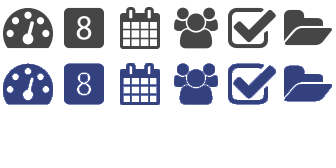
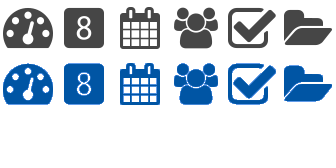
colors when hovering

Changed region(s): [[0.506, 0.3571, 1.0, 0.625], [0.0, 0.3571, 0.3274, 0.625], [0.3571, 0.3571, 0.4762, 0.625]]

diff --git a/intranet/static/css/responsive.core.css b/intranet/static/css/responsive.core.css
@@ -65,10 +65,6 @@ body.disable-scroll {
         opacity: 0;
     }
 
-    .header .search input[type="text"] {
-        width: 170px;
-    }
-
     /* adjust for absences label */
     .absence-count-label {
         display: none;
@@ -137,7 +133,7 @@ body.disable-scroll {
         height: 100%;
         height: calc(100% - 42px);
         overflow-y: auto;
-        background-color: rgb(56, 56, 56);
+        background-color: rgb(242,242,244); /*rgb(56, 56, 56);*/
         border-radius: 0;
         border: none;
 

diff --git a/intranet/static/css/theme.blue.css b/intranet/static/css/theme.blue.css
@@ -9,11 +9,11 @@
 }
 
 .widget {
-    border-color: #6890CB;
+    border-color: rgb(104, 144, 203);
 }
 
 .widget-title {
-    border-bottom-color: #6890CB;
+    border-bottom-color: rgb(104, 144, 203);
     font-weight: bold;
 }
 
@@ -38,6 +38,10 @@ ul.nav li.selected {
 .nav a, .nav a:active, .nav a:visited {
     text-decoration: none;
     color: rgb(72, 72, 72);
+}
+
+ul.nav a:hover {
+    color: rgb(1, 94, 222);
 }
 
 ul.nav li.selected a {
